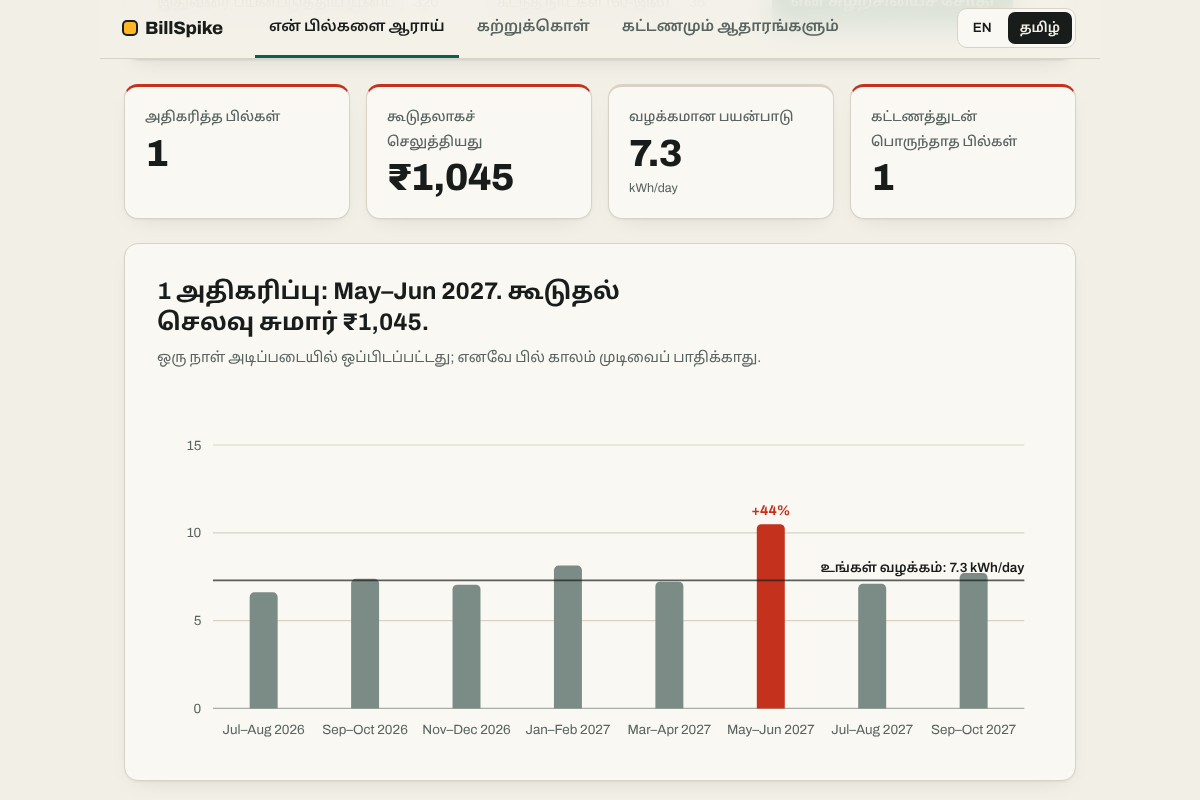
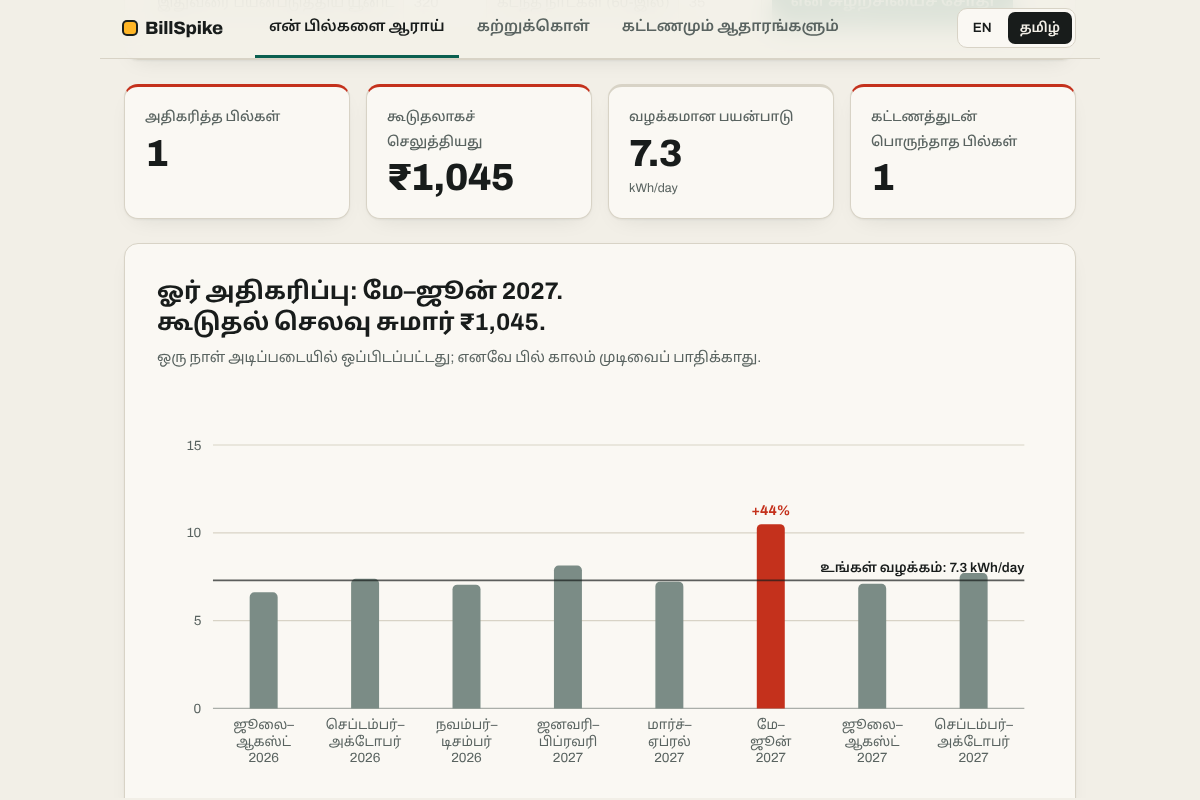
Power back on!

Changed region(s): [[0.1233, 0.3438, 0.5242, 0.4375], [0.185, 0.875, 0.8633, 0.9688]]

diff --git a/js/chart.js b/js/chart.js
@@ -4,7 +4,7 @@
  * round tick values, and a hover/focus tooltip on every mark. Colour carries meaning only: grey is usual, red is a spike.
  */
 import { expectedBill, TARIFF } from "./tariff.js";
-import { t } from "./i18n.js";
+import { t, mo } from "./i18n.js";
 
 const NS = "http://www.w3.org/2000/svg";
 const svgEl = (tag, attrs = {}, text) => {
@@ -73,8 +73,20 @@ const wire = (el, tip, lines, on, off) => {
   el.addEventListener("blur", close);
 };
 
+/** Split a period label into short lines so long (Tamil) month names never collide: "A–", "B", "2027". */
+function labelLines(label) {
+  const parts = label.split("–");
+  if (parts.length !== 2) return [label];
+  const [a, b] = parts;
+  const m = b.match(/^(.+) (\d{4})$/);
+  return !/\d{4}$/.test(a) && m ? [`${a}–`, m[1], m[2]] : [`${a}–`, b];
+}
+
 export function renderChart(host, { bills, baseline, unit }) {
-  const W = 760, H = 290, p = { l: 48, r: 16, t: 30, b: 34 };
+  const W = 760, slot0 = (W - 48 - 16) / bills.length;
+  const labels = bills.map((b) => mo(b.month));
+  const wrap = Math.max(...labels.map((l) => l.length)) * 6.4 > slot0 - 6;
+  const H = wrap ? 318 : 290, p = { l: 48, r: 16, t: 30, b: wrap ? 62 : 34 };
   const dp = baseline < 20 ? 1 : 0;
   const { ticks, top } = niceTicks(Math.max(...bills.map((b) => b.value), baseline) * 1.08);
   const slot = (W - p.l - p.r) / bills.length;
@@ -84,7 +96,7 @@ export function renderChart(host, { bills, baseline, unit }) {
   host.replaceChildren(svg);
   const tip = tooltip(host);
   grid(svg, p, W, ticks, y, compact);
-  const every = Math.max(1, Math.ceil(64 / slot));
+  const every = wrap ? 1 : Math.max(1, Math.ceil(64 / slot));
   bills.forEach((b, i) => {
     const w = Math.min(24, slot * 0.6), x = p.l + i * slot + (slot - w) / 2, tipY = y(b.value);
     const r = Math.min(4, w / 2, base - tipY);
@@ -92,13 +104,18 @@ export function renderChart(host, { bills, baseline, unit }) {
     const bar = svgEl("path", { d, class: b.spike ? "bar spike" : "bar" });
     const hit = svgEl("rect", { x: p.l + i * slot, y: p.t, width: slot, height: base - p.t, fill: "transparent", class: "hit" });
     wire(hit, tip, [
-      [b.month],
+      [mo(b.month)],
       [`${+b.value.toFixed(dp)} ${unit}`, true],
       [`${t("th.vs")}: ${b.pct >= 0 ? "+" : ""}${Math.round(b.pct)}%`],
       [`${t("th.billed")}: ${inr(b.amount)}`],
     ], () => bar.classList.add("on"), () => bar.classList.remove("on"));
     svg.append(bar, hit);
-    if (i % every === 0) svg.append(svgEl("text", { x: x + w / 2, y: H - 12, "text-anchor": "middle" }, b.month));
+    if (i % every === 0) {
+      const lines = wrap ? labelLines(labels[i]) : [labels[i]];
+      const txt = svgEl("text", { x: x + w / 2, y: base + 18, "text-anchor": "middle" });
+      lines.forEach((ln, k) => txt.append(svgEl("tspan", { x: x + w / 2, dy: k ? 14 : 0 }, ln)));
+      svg.append(txt);
+    }
     if (b.spike) svg.append(svgEl("text", { x: x + w / 2, y: tipY - 8, "text-anchor": "middle", class: "flag" }, `+${Math.round(b.pct)}%`));
   });
   // the usual level: one solid line, labelled at its right end
@@ -135,7 +152,7 @@ export function renderCurve(host, bills, kw) {
   for (const b of bills) {
     const dot = svgEl("circle", { cx: x(b.units), cy: y(b.amount), r: 5, class: b.cliff ? "dot spike" : "dot" });
     const hit = svgEl("circle", { cx: x(b.units), cy: y(b.amount), r: 14, fill: "transparent", class: "hit" });
-    const lines = [[b.month], [`${b.units} ${t("th.units").toLowerCase()}`, true], [`${t("th.billed")}: ${inr(b.amount)}`]];
+    const lines = [[mo(b.month)], [`${b.units} ${t("th.units").toLowerCase()}`, true], [`${t("th.billed")}: ${inr(b.amount)}`]];
     if (b.expected != null) lines.push([`${t("th.tariff")}: ${inr(b.expected)}`]);
     wire(hit, tip, lines, () => dot.classList.add("on"), () => dot.classList.remove("on"));
     svg.append(dot, hit);

diff --git a/js/main.js b/js/main.js
@@ -6,7 +6,7 @@ import { initLearn } from "./learn.js";
 import { plan } from "./planner.js";
 import { explain } from "./insights.js";
 import { renderChart, renderCurve } from "./chart.js";
-import { t, initLang } from "./i18n.js";
+import { t, mo, spikeCount, initLang } from "./i18n.js";
 import { initTabs, showTab } from "./tabs.js";
 import { yoy, forecast } from "./usage.js";
 
@@ -48,7 +48,7 @@ function renderTable(result) {
   const cols = [t("th.period"), t("th.units"), t("th.vs"), t("th.billed"), t("th.tariff"), t("th.gap"), t("th.yoy")];
   const rows = result.bills.map((b) =>
     h("tr", { className: b.spike ? "spike" : "" },
-      h("td", {}, b.month, ...(b.spike ? [h("span", { className: "tag", textContent: t("tag.spike") })] : []), ...(b.cliff ? [h("span", { className: "tag", textContent: ">500" })] : [])),
+      h("td", {}, mo(b.month), ...(b.spike ? [h("span", { className: "tag", textContent: t("tag.spike") })] : []), ...(b.cliff ? [h("span", { className: "tag", textContent: ">500" })] : [])),
       h("td", { textContent: b.units }),
       h("td", { textContent: `${b.pct >= 0 ? "+" : ""}${Math.round(b.pct)}%` }),
       h("td", { textContent: inr(b.amount) }),
@@ -93,7 +93,7 @@ const SEV = { high: "sev.high", warn: "sev.warn", info: "sev.info", ok: "sev.ok"
 function render(result, kw) {
   const spikes = result.bills.filter((b) => b.spike);
   const names = spikes.map((b) => b.month).join(", ");
-  $("summary").textContent = spikes.length ? t("sum.spikes", { n: spikes.length, names, amt: inr(result.extraCost) }) : t("sum.none");
+  $("summary").textContent = spikes.length ? t("sum.spikes", { c: spikeCount(spikes.length), names, amt: inr(result.extraCost) }) : t("sum.none");
   $("mode").textContent = t(result.perDay ? "mode.day" : "mode.total");
   setMeter(result.extraCost, spikes.length ? t("meter.spikes", { n: spikes.length, names }) : t("meter.none"));
   renderChart($("chart"), result);
@@ -112,7 +112,7 @@ function render(result, kw) {
 
 const list = $("bills");
 const thisYear = new Date().getFullYear();
-const monthOpts = MONTHS.map((t, i) => [i, t]);
+const monthOpts = () => MONTHS.map((m, i) => [i, mo(m)]);
 const yearOpts = Array.from({ length: 8 }, (_, i) => [thisYear - 6 + i, thisYear - 6 + i]);
 const q = (row, k) => row.querySelector(`[data-f="${k}"]`);
 
@@ -150,8 +150,8 @@ function addRow(d = {}) {
   }
   const row = h("div", { className: "bill-row" },
     h("div", { className: "period" },
-      h("label", {}, tr("span", "f.from"), select("fm", monthOpts, p.fromM, "From month"), select("fy", yearOpts, p.fromY, "From year")),
-      h("label", {}, tr("span", "f.to"), select("tm", monthOpts, p.toM, "To month"))),
+      h("label", {}, tr("span", "f.from"), select("fm", monthOpts(), p.fromM, "From month"), select("fy", yearOpts, p.fromY, "From year")),
+      h("label", {}, tr("span", "f.to"), select("tm", monthOpts(), p.toM, "To month"))),
     cell("units", "number", d.units, { placeholder: t("ph.units"), min: 0, step: 1 }),
     cell("amount", "number", d.amount, { placeholder: t("ph.amount"), min: 0, step: 1 }),
     cell("days", "number", d.days, { placeholder: t("ph.days"), min: 1, step: 1, title: "Calculated from the months. Edit to override." }),
@@ -272,6 +272,7 @@ setMeter(0, t("meter.wait"));
 const refreshLearn = initLearn($("kw"));
 refreshLearn();
 document.addEventListener("langchange", () => {
+  list.querySelectorAll('select[data-f="fm"], select[data-f="tm"]').forEach((sel) => [...sel.options].forEach((o, i) => { o.textContent = mo(MONTHS[i]); }));
   if ($("out").hidden) setMeter(0, t("meter.wait")); else run();
   if ($("plan").children.length) runPlanner();
   refreshLearn();

diff --git a/js/i18n.js b/js/i18n.js
@@ -14,7 +14,7 @@ export const en = {
   "kpi.spikes": "Spike bills", "kpi.extra": "Extra paid", "kpi.usual": "Usual usage", "kpi.off": "Bills off tariff",
   "sev.high": "Check this", "sev.warn": "Worth a look", "sev.info": "Good to know", "sev.ok": "All clear",
   "meter.wait": "Waiting for your bills", "meter.none": "No spike bills found", "meter.spikes": "Spike bills ({n}): {names}",
-  "sum.spikes": "{n} spike(s) found: {names}. Extra cost about {amt}.", "sum.none": "No unusual spikes. Your usage stays close to normal.",
+  "sum.spikes": "{c} found: {names}. Extra cost about {amt}.", "sum.none": "No unusual spikes. Your usage stays close to normal.",
   "mode.day": "Compared per day, so billing length does not skew results.", "mode.total": "Compared by total units. Add days to compare per day.",
   "th.period": "Period", "th.units": "Units", "th.vs": "Usage vs usual", "th.billed": "Billed", "th.tariff": "Tariff says", "th.gap": "Gap", "tag.spike": "spike",
   "i.cliff.t": "Crossed the 500-unit line", "i.cliff.item": "{m} ({o} units over, about {x} extra)",
@@ -58,9 +58,22 @@ let lang = "en";
 const base = new WeakMap();
 
 export const getLang = () => lang;
-export const t = (k, v = {}) => ((lang === "ta" && ta[k]) || en[k] || k).replace(/\{(\w+)\}/g, (_, n) => v[n] ?? "");
+const TA_MONTHS = { Jan: "ஜனவரி", Feb: "பிப்ரவரி", Mar: "மார்ச்", Apr: "ஏப்ரல்", May: "மே", Jun: "ஜூன்", Jul: "ஜூலை", Aug: "ஆகஸ்ட்", Sep: "செப்டம்பர்", Oct: "அக்டோபர்", Nov: "நவம்பர்", Dec: "டிசம்பர்" };
+/** Month abbreviations in a label ("May–Jun 2027") written out in Tamil when Tamil is on; unchanged in English. */
+export const mo = (s) => (lang === "ta" ? String(s).replace(/\b(Jan|Feb|Mar|Apr|May|Jun|Jul|Aug|Sep|Oct|Nov|Dec)\b/g, (m) => TA_MONTHS[m]) : String(s));
+const MONTH_VARS = new Set(["names", "list", "label", "m"]);
+export const t = (k, v = {}) => ((lang === "ta" && ta[k]) || en[k] || k).replace(/\{(\w+)\}/g, (_, n) => (MONTH_VARS.has(n) && v[n] != null ? mo(v[n]) : v[n] ?? ""));
+
+// Tamil counting words before a noun: ஓர் (before a vowel) / இரு / மூன்று ... then the plural noun for 2 or more.
+const TA_COUNT = [null, "ஓர்", "இரு", "மூன்று", "நான்கு", "ஐந்து", "ஆறு", "ஏழு", "எட்டு", "ஒன்பது", "பத்து"];
+/** "1 spike" / "3 spikes" in English; "ஓர் அதிகரிப்பு" / "மூன்று அதிகரிப்புகள்" in Tamil (digits above ten). */
+export const spikeCount = (n) => {
+  if (lang !== "ta") return n === 1 ? "1 spike" : `${n} spikes`;
+  return `${TA_COUNT[n] || n} ${n === 1 ? "அதிகரிப்பு" : "அதிகரிப்புகள்"}`;
+};
 
 export function applyLang() {
+  if (typeof document === "undefined") return; // lets tests run in Node
   document.documentElement.lang = lang;
   document.querySelectorAll("[data-i18n]").forEach((el) => {
     const k = el.dataset.i18n;
@@ -75,7 +88,7 @@ export function setLang(l) {
   lang = l;
   try { localStorage.setItem(KEY, l); } catch {}
   applyLang();
-  document.dispatchEvent(new Event("langchange"));
+  if (typeof document !== "undefined") document.dispatchEvent(new Event("langchange"));
 }
 
 /** Restore the saved language, or ask the visitor to pick one on first visit. */

diff --git a/js/lang-ta.js b/js/lang-ta.js
@@ -40,7 +40,7 @@ export const ta = {
   "so.p2": "மதிப்பீடுகளில் நிலுவையும் தாமதக் கட்டணமும் சேராது. சிக்கல்களுக்கு TNPDCL உதவி எண் 1912-ஐ அழைக்கவும். இது சுயேச்சைத் திட்டம்; TNPDCL உடன் தொடர்பில்லை.",
   "f.p": "BillSpike · திறந்த மூலம் · உங்கள் உலாவியிலேயே இயங்கும்",
   "meter.wait": "உங்கள் பில்களுக்காகக் காத்திருக்கிறது", "meter.none": "அதிகரிப்பு பில் எதுவும் இல்லை", "meter.spikes": "அதிகரிப்பு பில்கள் ({n}): {names}",
-  "sum.spikes": "{n} அதிகரிப்பு: {names}. கூடுதல் செலவு சுமார் {amt}.", "sum.none": "அசாதாரண அதிகரிப்பு இல்லை. பயன்பாடு வழக்கமான அளவுக்கு அருகில் உள்ளது.",
+  "sum.spikes": "{c}: {names}. கூடுதல் செலவு சுமார் {amt}.", "sum.none": "அசாதாரண அதிகரிப்பு இல்லை. பயன்பாடு வழக்கமான அளவுக்கு அருகில் உள்ளது.",
   "mode.day": "ஒரு நாள் அடிப்படையில் ஒப்பிடப்பட்டது; எனவே பில் காலம் முடிவைப் பாதிக்காது.", "mode.total": "மொத்த யூனிட்களால் ஒப்பிடப்பட்டது. நாள் அடிப்படைக்கு நாட்களைச் சேர்க்கவும்.",
   "i.cliff.t": "500 யூனிட் எல்லையைத் தாண்டியது", "i.cliff.item": "{m} ({o} யூனிட் அதிகம், சுமார் {x} கூடுதல்)",
   "i.cliff.d": "{list}. 500 யூனிட்டுக்கு மேல் 100 மட்டுமே இலவசம்; கூடுதல் யூனிட்கள் ₹8.40-க்கு மேற்பட்ட படிநிலையில் வரும்.",

diff --git a/tests/tamil-forms.test.js b/tests/tamil-forms.test.js
@@ -1,0 +1,30 @@
+import { test, after } from "node:test";
+import assert from "node:assert/strict";
+import { setLang, mo, spikeCount, t } from "../js/i18n.js";
+
+after(() => setLang("en"));
+
+test("English counts spikes with a plain number", () => {
+  setLang("en");
+  assert.equal(spikeCount(1), "1 spike");
+  assert.equal(spikeCount(3), "3 spikes");
+  assert.equal(mo("May–Jun 2027"), "May–Jun 2027");
+});
+test("Tamil uses counting words: ஓர் for one, plural noun from two", () => {
+  setLang("ta");
+  assert.equal(spikeCount(1), "ஓர் அதிகரிப்பு");
+  assert.equal(spikeCount(2), "இரு அதிகரிப்புகள்");
+  assert.equal(spikeCount(3), "மூன்று அதிகரிப்புகள்");
+  assert.equal(spikeCount(10), "பத்து அதிகரிப்புகள்");
+  assert.equal(spikeCount(12), "12 அதிகரிப்புகள்");
+});
+test("Tamil writes out month names in period labels", () => {
+  setLang("ta");
+  assert.equal(mo("May–Jun 2027"), "மே–ஜூன் 2027");
+  assert.equal(mo("Nov 2026–Jan 2027"), "நவம்பர் 2026–ஜனவரி 2027");
+});
+test("month names inside translated sentences are localised", () => {
+  setLang("ta");
+  const out = t("sum.spikes", { c: spikeCount(1), names: "May–Jun 2027", amt: "₹1,045" });
+  assert.match(out, /^ஓர் அதிகரிப்பு: மே–ஜூன் 2027\./);
+});
